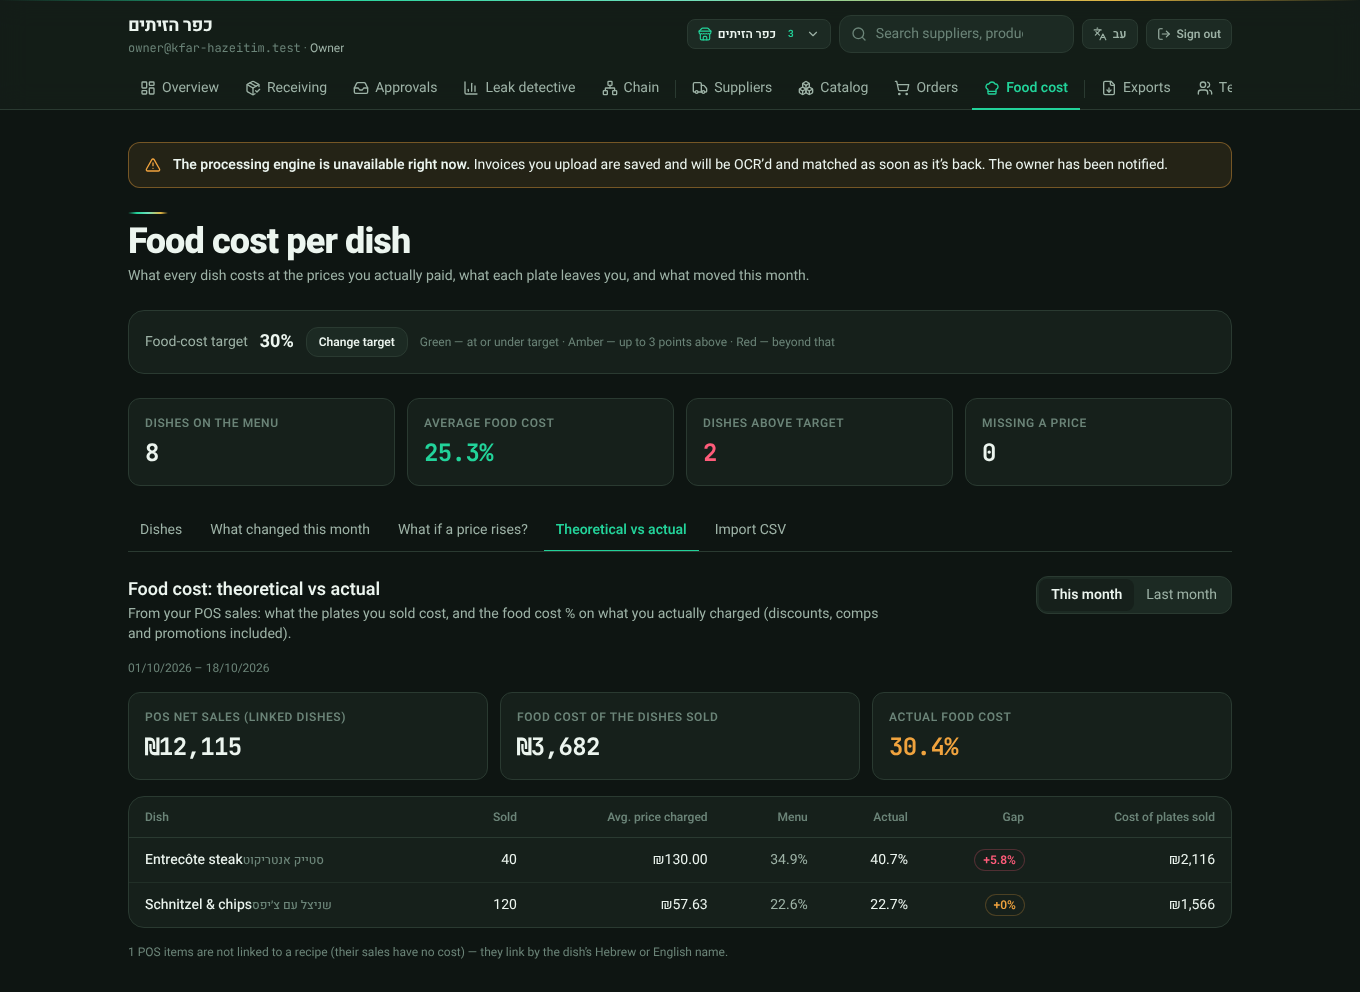
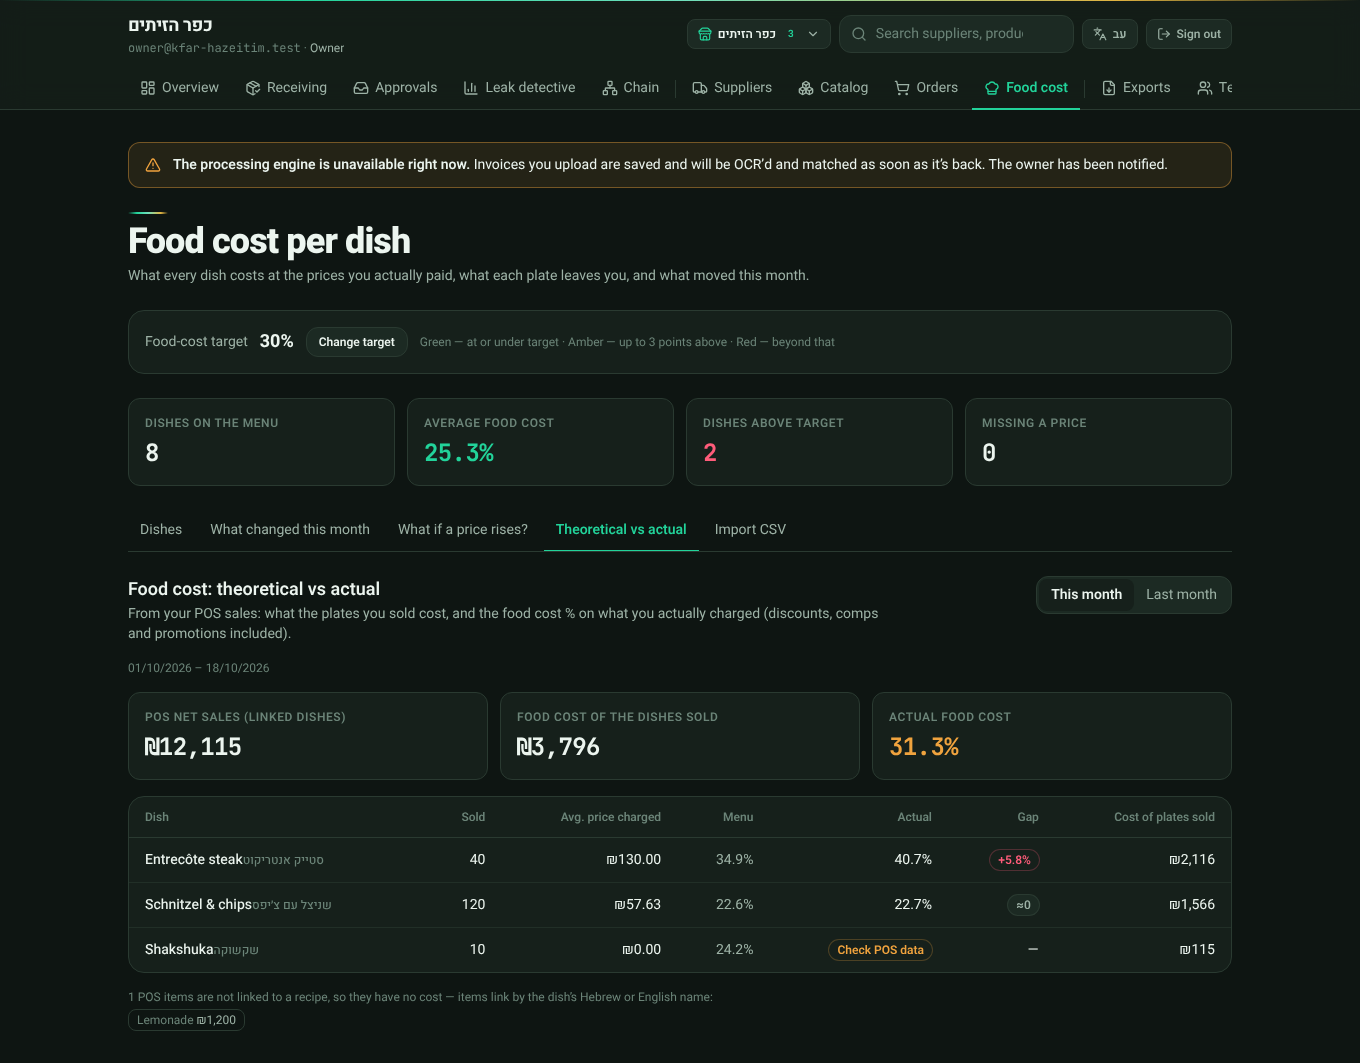
docs(recipes): POS theoretical-vs-actual — report section, refreshed screenshots, layer-2 script
Claude-Session: https://claude.ai/code/session_01Vn5nZK2dGmcF8NvVPagDAv

diff --git a/docs/client-ready/reports/wave1-recipes.md b/docs/client-ready/reports/wave1-recipes.md
@@ -166,3 +166,40 @@ Left as is:
 - Screenshots: `overview-card-{he,en}.png`, `overview-num10-{he,en}.png`.
 
 **Re-verified after merging 80a3934:** Layer 1 all ✅ (api 589, web 263, db 74 incl. the doctor wave-1 checks), and Layer 2 again 79/79 + 103/103.
+
+## Theoretical vs actual food cost per dish (POS) — orchestrator ask, owner decision
+
+**What it does.** A new tab, "תיאורטי מול בפועל / Theoretical vs actual", appears on `/dashboard/recipes` only when **both** the `recipes` and `integrations` flags are on. For the current or previous month, each dish shows:
+- units sold and the average price actually charged (POS net sales ÷ units);
+- the food-cost % at the **menu** price vs the food-cost % on **actual** POS net sales (discounts, comps and promotions included), and the gap between them;
+- the food cost of the plates sold.
+
+Totals cover the linked mix. POS items that aren't linked to any recipe are listed with their sales.
+
+**Data link.** I coded against S5's interface without merging S5's branch. `recipes/data.ts` `loadPosSales` runs the same aggregate as `integrations.posSummary` over `pos_sales` (S5's 0058). It reads only when the table exists **and** the app role has SELECT on it. Otherwise, and when `integrations` is off, `recipes.posVsTheory` returns `available:false` with a reason and never errors:
+- `integrationsOff`: the tab is hidden.
+- `noPosData`: a neutral empty state.
+
+**Matching POS items to dishes.**
+- By the item's ref or name against the dish's name, in this order: exact primary name, then normalized primary name, then normalized English name.
+- Normalization: NFKC, bidi marks removed, geresh/gershayim/quotes removed, maqaf/dashes unified, NBSP collapsed, lowercase.
+- Sub-recipes never match.
+
+**Money.** POS NUMERIC values are converted to agorot/qty×1000 at the boundary and handled as exact BigInt, rounded half-up once and capped like the engine. A dish with net sales ≤ 0 or an actual food cost above 200% (refunds, comps, a mis-keyed price) is shown as **"check POS data"** instead of a gap. A dish with a missing ingredient price is flagged as understated.
+
+**Security.** `posVsTheory` is a `recipesProcedure` (chef and up, recipes flag) with a COVERAGE entry. Isolation is tested: A's per-dish totals exclude B's sales of the same item on the same day.
+
+**Refuter (round 3).** One confirmed merge-breaker and three defects; all are fixed with tests.
+1. The suite inserted into `pos_sales` without `import_id`, which S5's real 0058 requires (NOT NULL). The test now builds the real 0058 shape. **Verified by applying S5's actual 0058 SQL to a scratch DB: 10/10.**
+2. A dish's own name could lose to another dish's English name. Fixed by the precedence order above.
+3. Hebrew/Unicode spelling variants didn't match. Fixed by `normName`.
+4. Outliers had no guard (₪0.01 sales ranked as a 10,000,000% gap). They are now flagged implausible and capped.
+
+Also fixed from its plausible list: the incomplete-cost flag; unlinked items are now listed, with the Hebrew copy corrected; a matched dish without a cost now stays in the unmatched list; a missing grant degrades to `null`; the unused i18n key was removed.
+
+**Verification (ae12d8d):**
+- **Layer 1:** all ✅. `turbo test` 13/13 (api 599 incl. `recipes-pos` 10, web 263), typecheck, web tsc, lint, supabase-sync check, build.
+- **Layer 2** (prod build, RLS app role, he + en):
+  - `layer2-pos.mjs` **44/44**: steak 34.9% menu vs 40.7% actual (avg ₪130.00 charged, gap +5.8 pts); ₪0.01 shakshuka → "check POS data"; Lemonade listed as unlinked; last month → neutral empty state; integrations off → tab hidden; 0 console errors / 5xx.
+  - Regression: recipes **103/103**, overview **79/79**.
+- Screenshots: `recipes-pos-{he,en}.png`.
